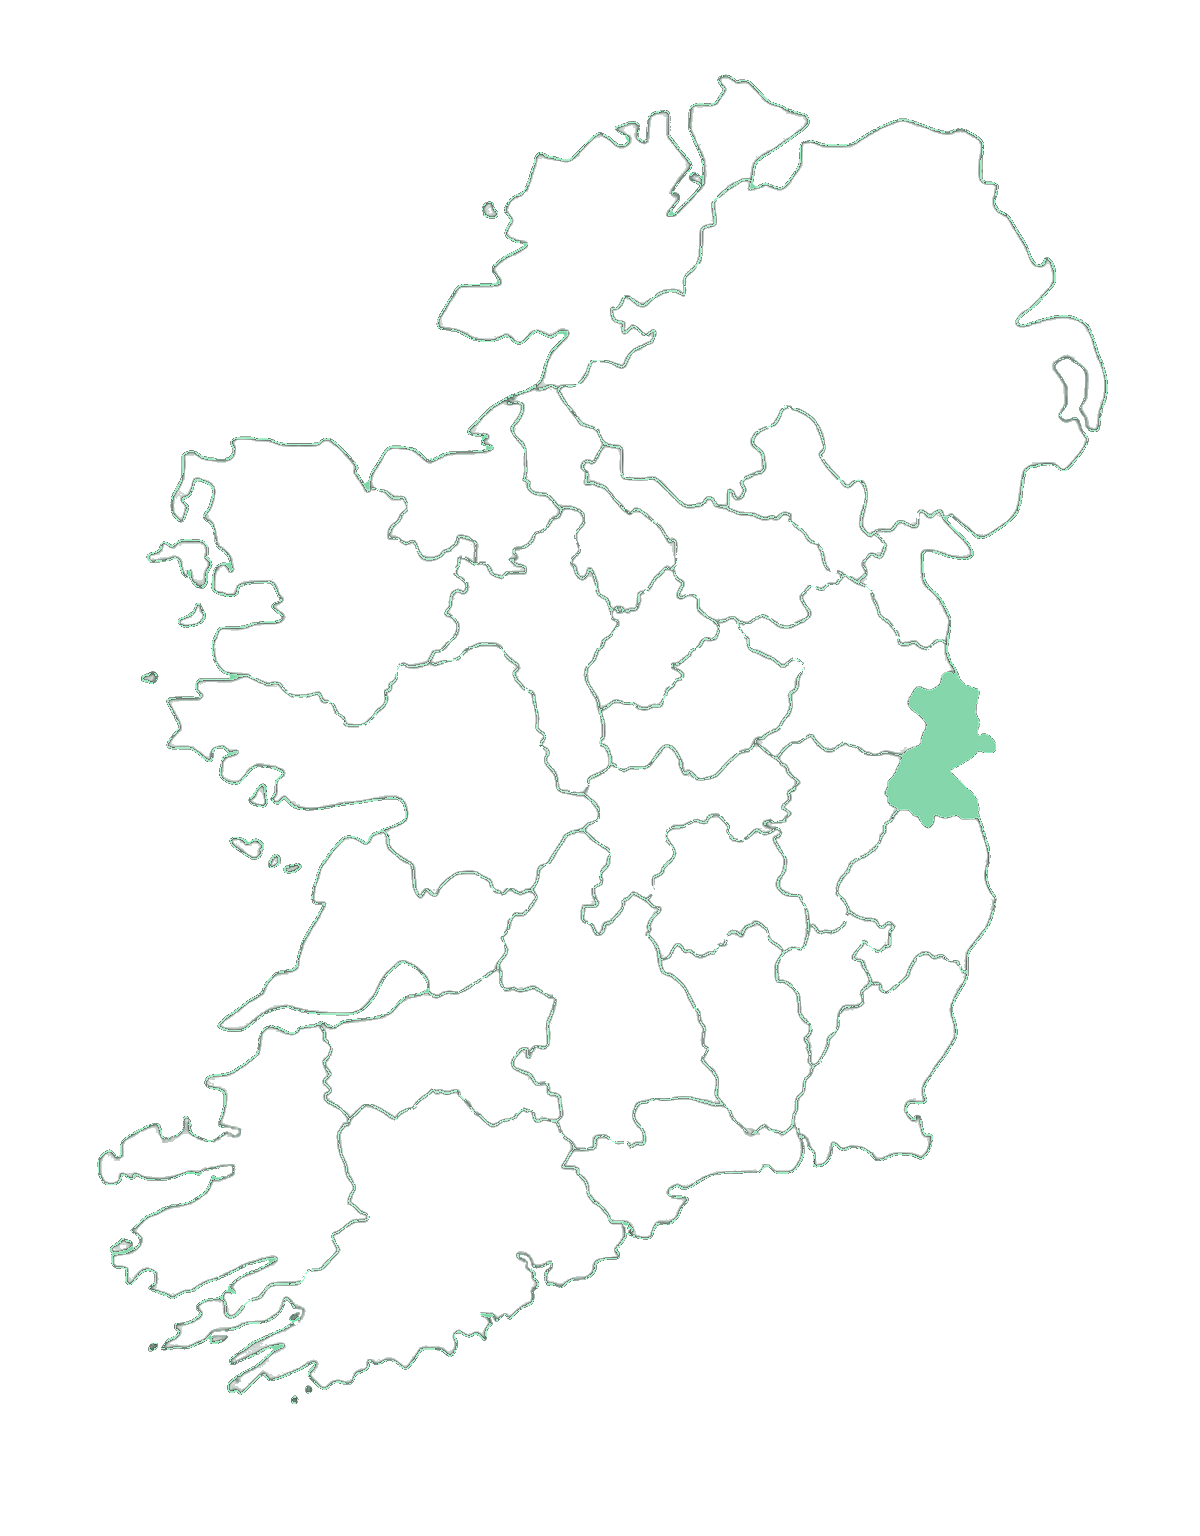
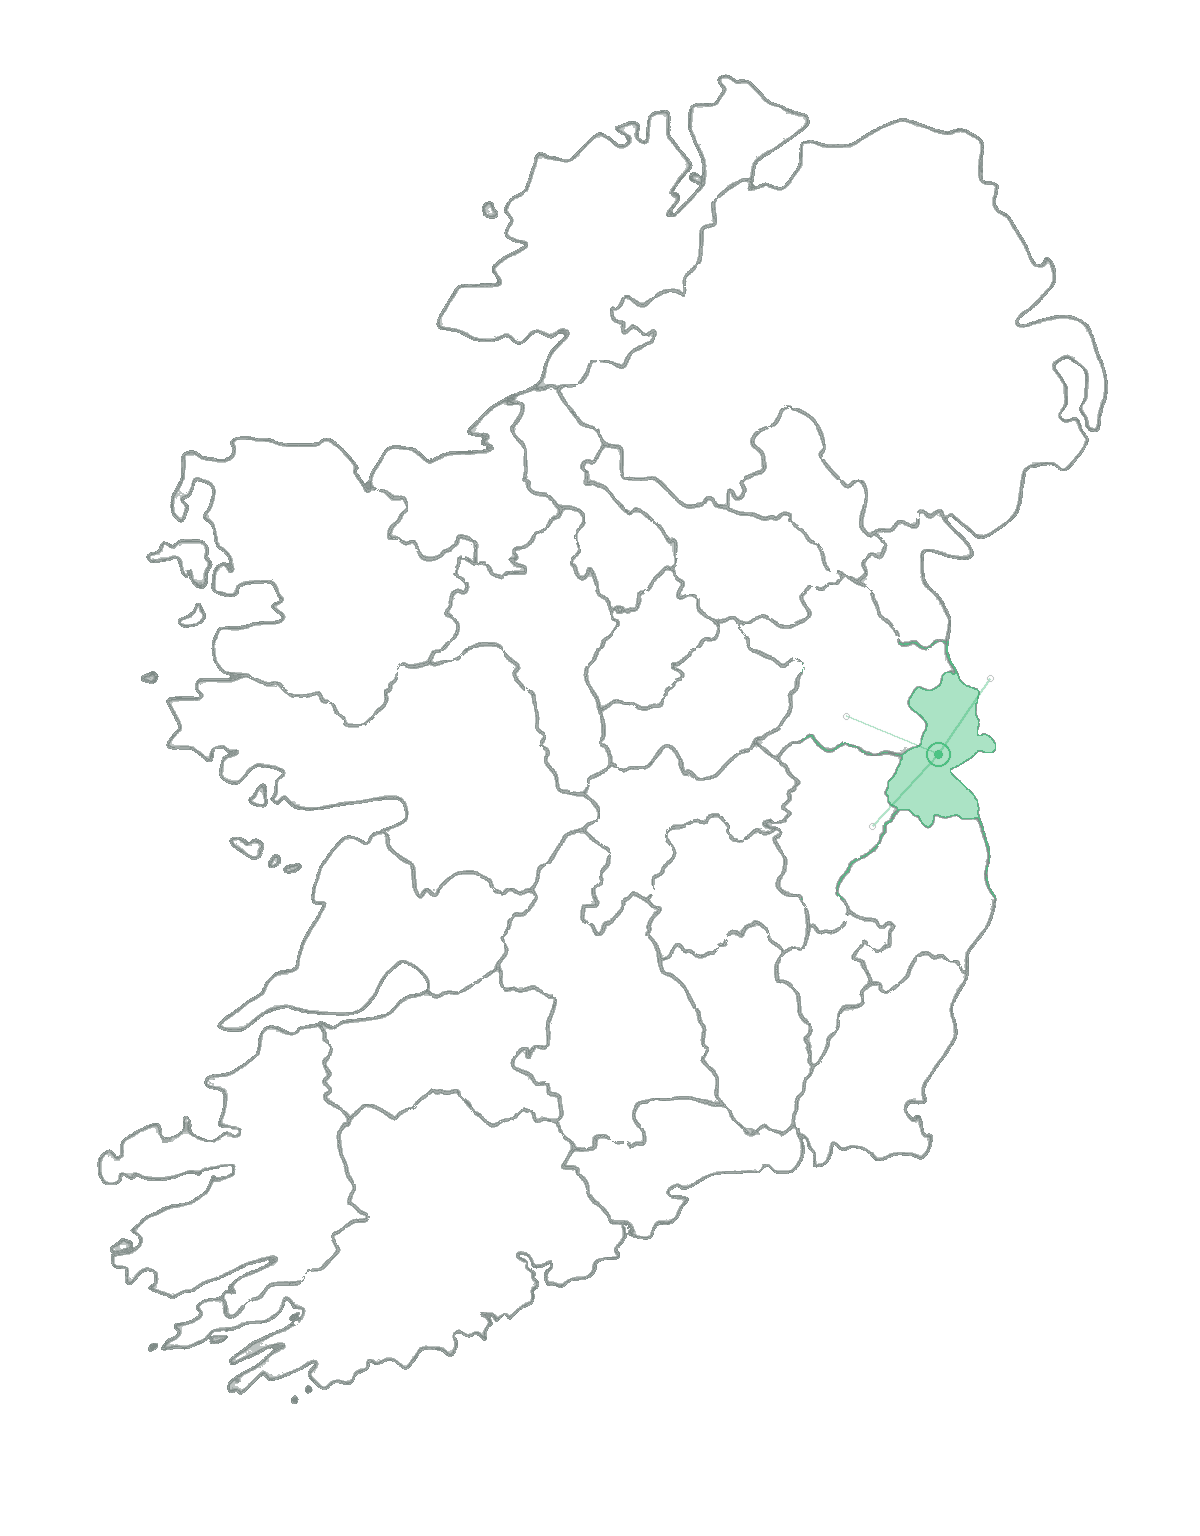
refine hero map and remove top seam

diff --git a/src/style.css b/src/style.css
@@ -4541,10 +4541,10 @@ body::before {
 }
 
 .hero-with-map {
-  min-height: calc(100svh - 24px);
+  min-height: 100svh;
   align-items: center;
   padding: clamp(var(--space-12), 8vh, var(--space-20)) 0 var(--space-10);
-  margin: 0 calc(-1 * var(--space-6)) 0;
+  margin: calc(-1 * var(--space-6)) calc(-1 * var(--space-6)) 0;
   width: calc(100% + 2 * var(--space-6));
   -webkit-mask-image: none;
   mask-image: none;
@@ -4692,7 +4692,7 @@ body::before {
 
 .hero-with-map .map-glow-main {
   filter: none;
-  opacity: 0.58;
+  opacity: 0.7;
   mix-blend-mode: multiply;
 }
 
@@ -4931,6 +4931,7 @@ body::before {
   .hero-with-map {
     min-height: auto;
     padding: var(--space-10) 0 var(--space-6);
+    margin-top: calc(-1 * var(--space-4));
     margin-left: calc(-1 * var(--space-4));
     margin-right: calc(-1 * var(--space-4));
     width: calc(100% + 2 * var(--space-4));